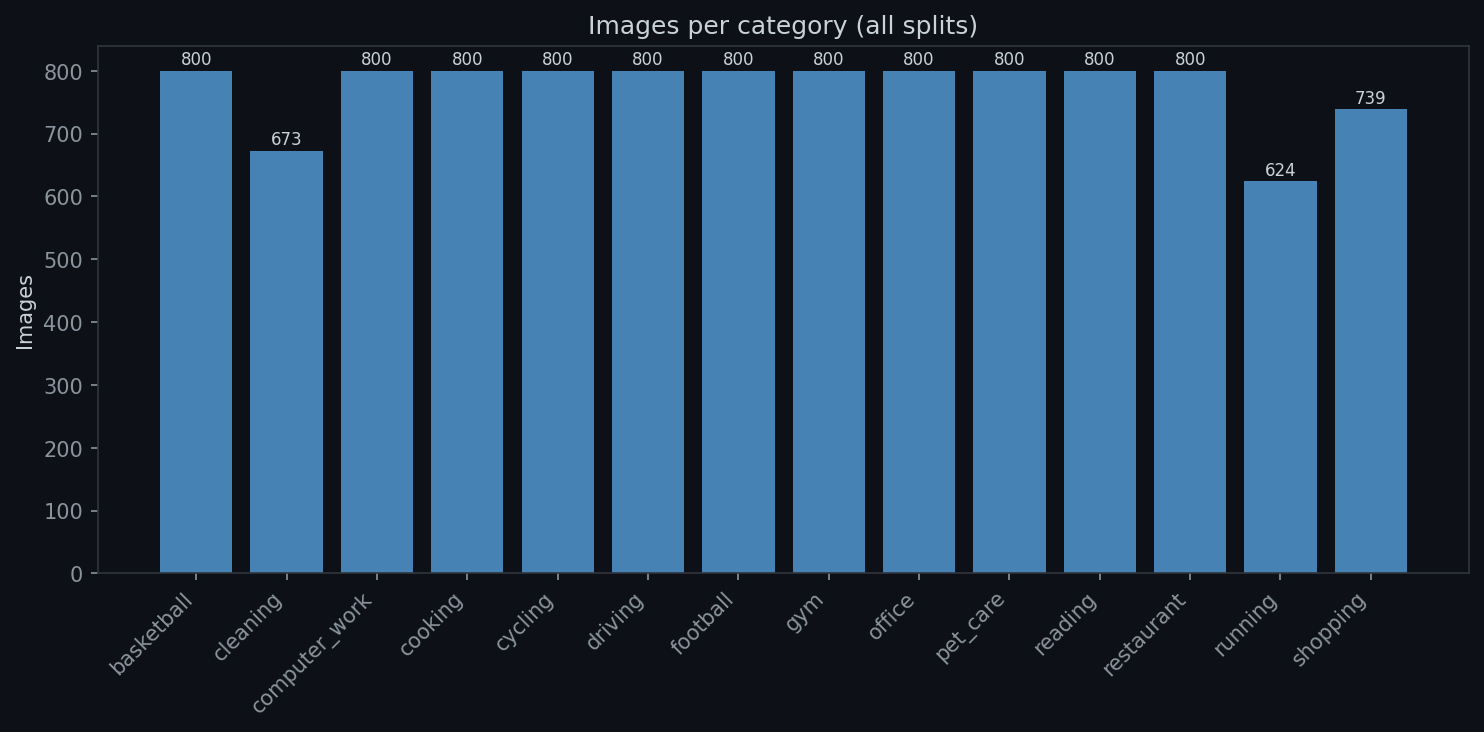
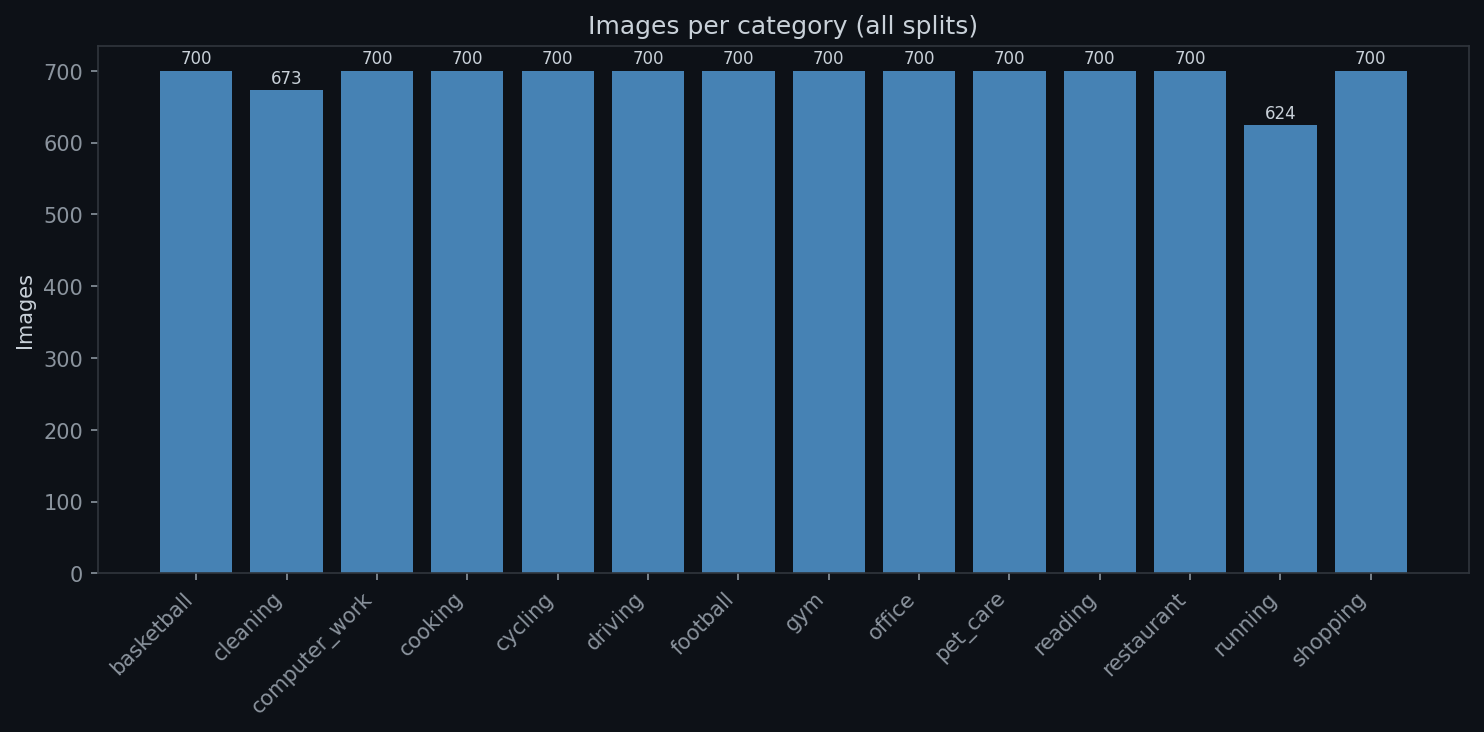
Changes

diff --git a/src/image_to_prompt/training/ablation_study.py b/src/image_to_prompt/training/ablation_study.py
@@ -85,7 +85,7 @@ BASE_CONFIG = {
     "lr_backbone": 1e-5,
     "weight_decay": 1e-4,
     "label_smoothing": 0.1,
-    "early_stopping_patience": 10,
+    "early_stopping_patience": 7,
     "early_stopping_min_delta": 0.001,
 }
 
@@ -169,7 +169,35 @@ def run_experiment(name: str, config: dict, device: torch.device) -> dict:
     )
 
     model = build_model(BASE_CONFIG["num_classes"]).to(device)
-    criterion = nn.CrossEntropyLoss(label_smoothing=BASE_CONFIG["label_smoothing"])
+
+    # Weighted loss to compensate for cleaning's smaller class
+    class_counts = {
+        "basketball": 700,
+        "cleaning": 673,
+        "computer_work": 700,
+        "cooking": 700,
+        "cycling": 700,
+        "driving": 700,
+        "football": 700,
+        "gym": 700,
+        "office": 700,
+        "pet_care": 700,
+        "reading": 700,
+        "restaurant": 700,
+        "running": 624,
+        "shopping": 700,
+    }
+    counts = [class_counts[c] for c in sorted(class_counts.keys())]
+    total = sum(counts)
+    class_weights = torch.tensor(
+        [total / (len(counts) * c) for c in counts],
+        dtype=torch.float,
+    ).to(device)
+
+    criterion = nn.CrossEntropyLoss(
+        weight=class_weights,
+        label_smoothing=BASE_CONFIG["label_smoothing"],
+    )
     scaler = GradScaler()
     history = {"train_loss": [], "val_loss": [], "train_acc": [], "val_acc": []}
     best_val_acc = 0.0

diff --git a/src/image_to_prompt/training/train_classifier.py b/src/image_to_prompt/training/train_classifier.py
@@ -39,7 +39,7 @@ CONFIG = {
     "lr_backbone": 1e-5,
     "weight_decay": 1e-4,
     "label_smoothing": 0.1,
-    "early_stopping_patience": 10,
+    "early_stopping_patience": 7,
     "early_stopping_min_delta": 0.001,
     "data_root": str(DATA_ROOT),
     "save_path": DEFAULT_SAVE_PATH,
@@ -218,7 +218,34 @@ def main():
         history = checkpoint.get("history", history)
         print(f"Resumed from epoch {start_epoch} (best val_acc={best_val_acc:.3f})")
 
-    criterion = nn.CrossEntropyLoss(label_smoothing=CONFIG["label_smoothing"])
+    # Weighted loss to compensate for cleaning's smaller class
+    class_counts = {
+        "basketball": 700,
+        "cleaning": 673,
+        "computer_work": 700,
+        "cooking": 700,
+        "cycling": 700,
+        "driving": 700,
+        "football": 700,
+        "gym": 700,
+        "office": 700,
+        "pet_care": 700,
+        "reading": 700,
+        "restaurant": 700,
+        "running": 624,
+        "shopping": 700,
+    }
+    counts = [class_counts[c] for c in sorted(class_counts.keys())]
+    total = sum(counts)
+    class_weights = torch.tensor(
+        [total / (len(counts) * c) for c in counts],
+        dtype=torch.float,
+    ).to(device)
+
+    criterion = nn.CrossEntropyLoss(
+        weight=class_weights,
+        label_smoothing=CONFIG["label_smoothing"],
+    )
     scaler = GradScaler()
 
     # ── Phase A: Frozen backbone ──

diff --git a/src/image_to_prompt/data_collection/final/split_dataset.py b/src/image_to_prompt/data_collection/final/split_dataset.py
@@ -15,7 +15,7 @@ SELECTED = Path("data/image_to_prompt/selected")
 FINAL = Path("data/image_to_prompt/final")
 IMAGE_EXTENSIONS = {".jpg", ".jpeg", ".png", ".webp", ".gif", ".bmp", ".tiff"}
 RATIOS = {"train": 0.70, "val": 0.15, "test": 0.15}
-MAX_PER_CATEGORY = 800
+MAX_PER_CATEGORY = 700
 SEED = 42
 
 
